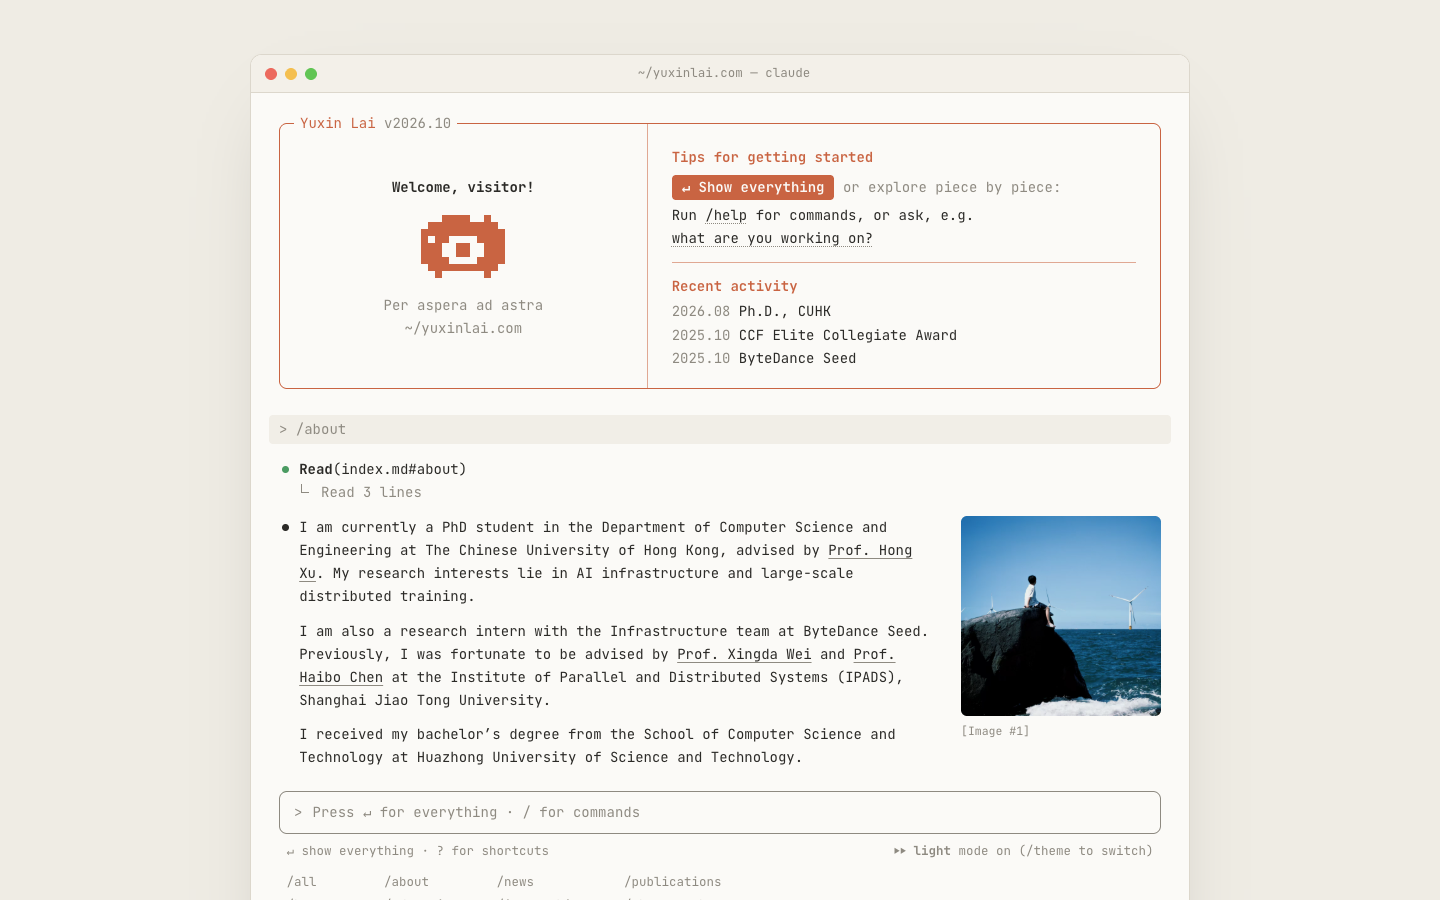
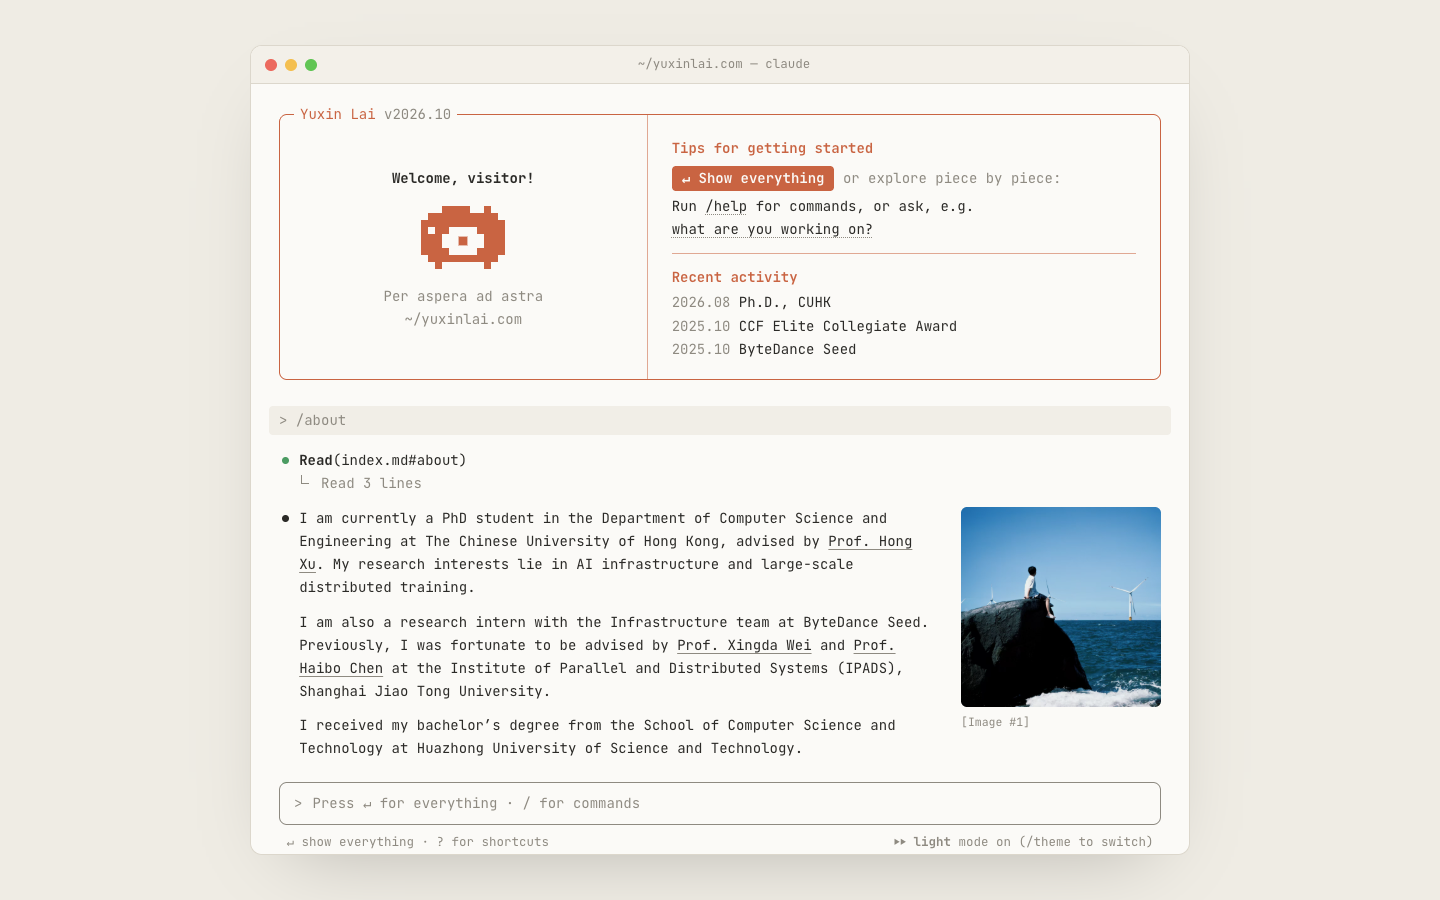
Drop /timeline; scroll inside the terminal window instead of the page

diff --git a/_layouts/default.html b/_layouts/default.html
@@ -46,9 +46,6 @@
       <div class="turn"><p class="you">&gt; /contact</p><section class="say links" data-cmd="contact" data-title="Contact" data-kind="links" data-desc="{% for l in page.links %}{{ l[0] }}{% unless forloop.last %}, {% endunless %}{% endfor %}">
         <ul>{% for l in page.links %}<li><a href="{{ l[1] }}"><b>{{ l[0] }}</b><span>{{ l[1] | remove: 'mailto:' | remove: 'https://' }}</span></a></li>{% endfor %}<li><a href="{{ page.gallery.url }}"><b>{{ page.gallery.title }}</b><span>{{ page.gallery.url | remove: 'https://' }}</span></a></li></ul>
       </section></div>
-      <div class="turn"><p class="you">&gt; /timeline</p><section class="say todos" data-cmd="timeline" data-title="Timeline" data-kind="todos" data-desc="{{ page.milestones.size }} milestones so far">
-        <ul>{% for m in page.milestones %}<li>☒ <em>{{ m.date }}</em>  {{ m.text }}</li>{% endfor %}<li class="todo">☐ {{ page.motto }}</li></ul>
-      </section></div>
     </div>
     <form class="input" id="prompt"><span class="dim">&gt;</span><input id="q" autocomplete="off" autocapitalize="off" spellcheck="false" enterkeyhint="send" placeholder="Press ↵ for everything · / for commands" aria-label="Type a command or a question"></form>
     <div class="menu" id="menu" hidden></div>
@@ -57,10 +54,10 @@
   </div>
 </div>
 <script>
-const $ = s => document.querySelector(s), root = document.documentElement, log = $('#log'), q = $('#q'), menu = $('#menu'), keys = $('#keys');
+const $ = s => document.querySelector(s), root = document.documentElement, term = $('.term'), log = $('#log'), q = $('#q'), menu = $('#menu'), keys = $('#keys');
 const lib = [...document.querySelectorAll('#lib section')];
 const cmds = [['all', 'Show everything at once'], ...lib.map(s => [s.dataset.cmd, s.dataset.desc]), ['help', 'List everything I can show you'], ['theme', 'Switch between light and dark'], ['clear', 'Clear the conversation']];
-const hints = [['publications', /paper|publication|kunserve|eurosys/], ['{{ gallery }}', /photo|camera|gallery|picture/], ['honors', /award|honou?r|prize|scholarship/], ['education', /school|stud|degree|universit|educat|phd|bachelor/], ['internships', /intern|job|seed|ipads|industry/], ['news', /news|recent|latest|update/], ['contact', /contact|e-?mail|reach|github|scholar|\bcv\b|resume/], ['timeline', /timeline|history|journey|milestone/], ['all', /everything|\ball\b|full|whole/], ['help', /help|what can/], ['about', /who|yourself|research|interest|working on|about/]];
+const hints = [['publications', /paper|publication|kunserve|eurosys/], ['{{ gallery }}', /photo|camera|gallery|picture/], ['honors', /award|honou?r|prize|scholarship/], ['education', /school|stud|degree|universit|educat|phd|bachelor/], ['internships', /intern|job|seed|ipads|industry/], ['news', /news|recent|latest|update/], ['contact', /contact|e-?mail|reach|github|scholar|\bcv\b|resume/], ['all', /everything|\ball\b|full|whole/], ['help', /help|what can/], ['about', /who|yourself|research|interest|working on|about/]];
 const verbs = ['Thinking', 'Pondering', 'Stargazing', 'Musing', 'Recollecting'], hist = [], fine = matchMedia('(pointer: fine)').matches;
 let hi = 0, sel = 0, busy = false;
 const el = (cls, html = '') => Object.assign(document.createElement('div'), {className: cls, innerHTML: html});
@@ -85,7 +82,6 @@ const reply = (name, t) => {
   }
   const s = lib.find(x => x.dataset.cmd === name), body = s.cloneNode(true), n = body.querySelectorAll('p,li,h3').length;
   if (s.dataset.kind === 'links') return [body];
-  if (s.dataset.kind === 'todos') { const r = el('res'); body.classList.remove('say'); r.append(body); return [el('tool', '<b>Update Todos</b>'), r]; }
   if (s.dataset.kind === 'photos') return [el('tool', `<b>Fetch</b>(${s.dataset.src})`), el('res', `Received ${body.querySelectorAll('figure').length} photos`), body];
   return [el('tool', `<b>Read</b>(index.md#${name})`), el('res', `Read ${n} line${n > 1 ? 's' : ''}`), body];
 };
@@ -104,9 +100,9 @@ const run = async (raw, quiet) => {
   reply(name, t).forEach((n, i) => { n.style.animationDelay = i * 90 + 'ms'; turn.append(n); });
   busy = false;
   if (quiet) return;
-  const r = turn.getBoundingClientRect();
-  if (r.height > innerHeight * .7) turn.scrollIntoView({behavior: 'smooth'});
-  else if (r.bottom + 120 > innerHeight) scrollBy({top: r.bottom + 120 - innerHeight, behavior: 'smooth'});
+  const r = turn.getBoundingClientRect(), {bottom, height} = term.getBoundingClientRect();
+  if (r.height > height * .7) turn.scrollIntoView({behavior: 'smooth'});
+  else if (r.bottom + 120 > bottom) term.scrollBy({top: r.bottom + 120 - bottom, behavior: 'smooth'});
 };
 function suggest() {
   const v = q.value.toLowerCase(), opts = v.startsWith('/') && !v.includes(' ') ? cmds.filter(([c]) => c.startsWith(v.slice(1))) : [];
@@ -134,6 +130,7 @@ document.addEventListener('click', e => {
   if (b) return e.preventDefault(), run(b.dataset.run);
   if (fine && e.target.closest('.term') && !e.target.closest('a,button,input') && !getSelection().toString()) q.focus({preventScroll: true});
 });
+addEventListener('wheel', e => e.target.closest('.win') || term.scrollBy(e.deltaX, e.deltaY), {passive: true});
 (async () => {
   const first = '/' + lib[0].dataset.cmd;
   await sleep(500);

diff --git a/assets/css/main.css b/assets/css/main.css
@@ -10,13 +10,13 @@ p{margin:0}
 strong{font-weight:700}
 .dim{color:var(--dim)}
 
-.win{max-width:940px;margin:clamp(16px,6vh,64px) auto 96px;border:1px solid var(--line);border-radius:12px;background:var(--win);box-shadow:0 30px 80px -40px rgb(0 0 0 / .28);overflow:hidden;transition:background .3s}
+.win{--gap:clamp(16px,5vh,48px);display:flex;flex-direction:column;max-width:940px;height:calc(100dvh - 2*var(--gap));margin:var(--gap) auto;border:1px solid var(--line);border-radius:12px;background:var(--win);box-shadow:0 30px 80px -40px rgb(0 0 0 / .28);overflow:hidden;transition:background .3s}
 .bar{display:flex;align-items:center;gap:8px;height:38px;padding:0 14px;border-bottom:1px solid var(--line);background:var(--bar);color:var(--dim);font-size:12.5px}
 .bar i{width:12px;height:12px;border-radius:50%;background:#ec6a5e}
 .bar i:nth-child(2){background:#f4bf4f}
 .bar i:nth-child(3){background:#61c554}
 .bar span{flex:1;margin-right:52px;text-align:center}
-.term{padding:30px 28px 24px}
+.term{flex:1;overflow:auto;padding:30px 28px 24px}
 
 .welcome{position:relative;display:grid;grid-template-columns:minmax(0,1fr) minmax(0,1.4fr);margin-bottom:26px;border:1px solid var(--accent);border-radius:8px}
 .welcome>div{padding:22px 24px 18px}
@@ -53,7 +53,7 @@ strong{font-weight:700}
 .say li{position:relative;padding-left:2ch}
 .say li::before{content:"-";position:absolute;left:0;color:var(--dim)}
 .say .dated{padding-left:19ch}
-.say .dated::before,.links li::before,[data-kind=todos] li::before{content:none}
+.say .dated::before,.links li::before{content:none}
 .dated>em:first-child{position:absolute;left:0;color:var(--dim);font-style:normal}
 .say h3{margin:0 0 .15em;color:var(--accent);font-size:inherit;font-weight:700}
 .say h3 a{text-decoration:none}
@@ -74,9 +74,6 @@ strong{font-weight:700}
 figure{margin:0;color:var(--dim);font-size:11.5px;line-height:1.5}
 figure img{display:block;width:100%;aspect-ratio:4/3;object-fit:cover;border-radius:4px}
 figcaption{margin-top:6px}
-.todos ul{margin:0;padding:0;list-style:none}
-.todos em{font-style:normal}
-.todos .todo{color:var(--text)}
 
 .input{display:flex;align-items:center;gap:1.2ch;padding:9px 14px;border:1px solid var(--line);border-radius:8px;transition:border-color .2s}
 .input:focus-within{border-color:var(--dim)}
@@ -93,7 +90,7 @@ html:not(.js) :is(.input,.status,.keys),.js #lib,.menu:not([hidden])~*{display:n
 
 @media (max-width:680px){
   body{font-size:12.5px}
-  .win{margin:0;border:0;border-radius:0}
+  .win{--gap:0px;border:0;border-radius:0}
   .term{padding:22px 14px 20px}
   .welcome{grid-template-columns:1fr}
   .tips{border-left:0;border-top:1px solid color-mix(in srgb,var(--accent) 55%,transparent)}

diff --git a/README.md b/README.md
@@ -16,7 +16,7 @@
 | `avatar` | 个人照片，显示在第一节的回答旁边；删掉这一行就不显示 |
 | `links` | `/contact` 列出的链接，按书写顺序显示 |
 | `gallery` | 摄影网站：`title`、`url` 是名称和地址（`/contact` 末尾也会列出）；`photos` 是 `/photography` 展示的照片（`photo`、`alt`、`caption`，可选的裁切位置 `focus`），都链接到 `url`；`note` 是照片下面的一段 Markdown |
-| `milestones` | `/timeline` 的待办清单，从早到晚排列；最新三条也显示在欢迎框的 Recent activity 里 |
+| `milestones` | 欢迎框 Recent activity 里的近况，从早到晚排列，只显示最新三条 |
 
 YAML 里的日期要加引号（`"2025.10"`），否则会被读成数字 2025.1。
 

diff --git a/index.md b/index.md
@@ -37,7 +37,7 @@ gallery:        # /photography: the photos (each links to url; focus = crop anch
       caption: |
         LUMIX S5M2 · 60 mm
         ƒ/8 · 1/320 s · ISO 100
-milestones:     # /timeline, oldest first; the newest three also show under "Recent activity". Quote dates so "2025.10" stays 2025.10
+milestones:     # oldest first; the newest three show under "Recent activity" in the welcome box. Quote dates so "2025.10" stays 2025.10
   - {date: "2019.12", text: "NOIP, First Prize"}
   - {date: "2022.09", text: "B.Eng., HUST"}
   - {date: "2023.12", text: "National Scholarship"}
